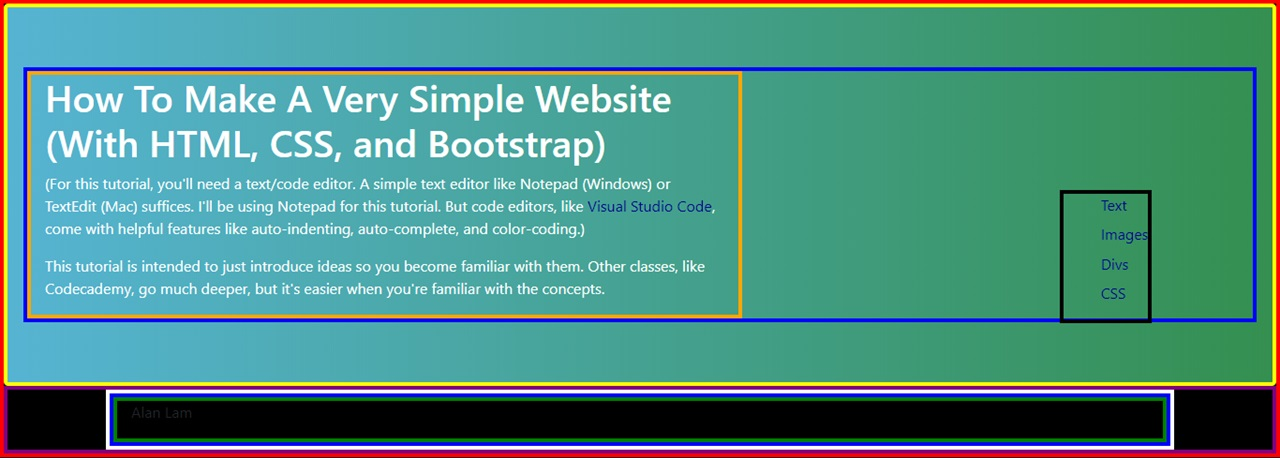
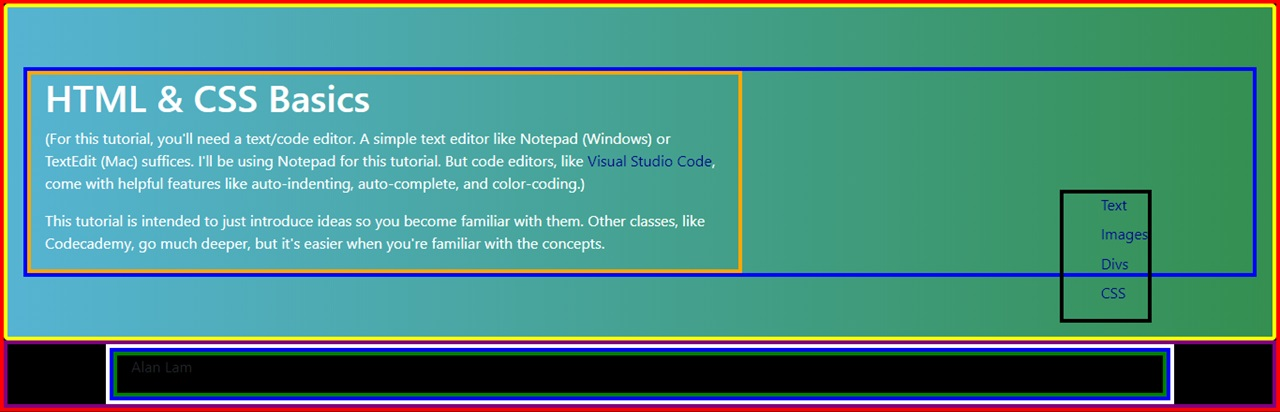
update

diff --git a/website_tutorial.html b/website_tutorial.html
@@ -13,13 +13,14 @@
         <li><a href="#text">Text</a></li>
         <li><a href="#images">Images</a></li>
         <li><a href="#divs">Divs</a></li>
+        <li><a href="#classes">Classes</a></li>
         <li><a href="#css">CSS</a></li>
       </ul>
     </div>
     <div class="jumbotron">
       <div class="row">
         <div class="col-sm-7">
-          <h1>How To Make A Very Simple Website (With HTML, CSS, and Bootstrap)</h1>
+          <h1>HTML & CSS Basics</h1>
           <img class="img-fluid" src="./pictures/website_tutorial/cover_picture.jpg">
           <p>(For this tutorial, you'll need a text/code editor. A simple text editor like Notepad (Windows) or TextEdit (Mac) suffices. I'll be using Notepad for this tutorial. But code editors, like <a href="https://code.visualstudio.com/" target="_blank">Visual Studio Code</a>, come with helpful features like auto-indenting, auto-complete, and color-coding.)</p>
           <p>This tutorial is intended to just introduce ideas so you become familiar with them. Other classes, like Codecademy, go much deeper, but it's easier when you're familiar with the concepts.</p>
@@ -33,7 +34,8 @@
           <p>The two main types of text you're going to see on a website are headings and paragraphs. Headings are the big bold titles and paragraphs are the regular words, like the ones in this sentence.</p>
           <img class="img-fluid" src="./pictures/website_tutorial/heading.jpg">
           <p>This is the syntax for creating a heading element. The "&lt;h1&gt;" is called an opening tag. The "&lt;/h1&gt;" is called a closing tag. The "h1" means it is a heading with the biggest size. The numbers range from 1-6 where 1 is the largest and 6 is the smallest. These numbers only apply for headings.</p>
-          <p>Save the file, go to the place where it is saved on your computer, and double click on it. You should see the words "This is a heading" at the top left.</p>
+          <p>Save the file, go to the place where it is saved on your computer, and open* it. You should see the words "This is a heading" at the top left.</p>
+          <p>*From this point on, when I say open a file - or if you want to see the changes you made -, I mean refresh the page. If you haven't closed the page yet.</p>
           <img class="img-fluid" src="./pictures/website_tutorial/paragraph.jpg">
           <p>Below the heading is the syntax for a paragraph element. The opening tag (&lt;p&gt;) is at the beginning and the closing tag (&lt;/p&gt;) is at the end. As you can guess, the "p" stands for paragraph. If you save your file and open it, you should see the paragraph element below the heading.</p>
           <h3 id="images">Images</h3>
@@ -43,8 +45,36 @@
           <h3 id="divs">Divs</h3>
           <p>"Div" is short for "division". In this case, division means a part of the webpage that has been divided. These are the rectangles I mentioned earlier. One way of looking at this is like imagining the webpage as a big rectangle. Adding divs is like adding smaller rectangles inside the big rectangle.</p>
           <img class="img-fluid" src="./pictures/website_tutorial/div.jpg">
-          <p>Here is the syntax for creating a div. By convention, everything inside a div is indented by 2 spaces. If you save the file and open it, nothing should change. That is because divs don't add anything visual. They are used to place elements that should logically be together. For example, the menu on the right is inside it's own div because it contains links to places on this page. So it is logical to place them together inside a div. The footer at the bottom is in its own div because it is separate from the rest of the elements on this webpage.</p> <p>Because they are related, you would want related elements to look the same. For example, for this webpage, the instructional text is white and menu links are blue. Putting logically related elements inside a div makes it easy to style them so they look the same.</p>
+          <p>Here is the syntax for creating a div. By convention, everything inside a div is indented by 2 spaces. If you save the file and open it, nothing should change. That is because divs don't add anything visual. They are used - not exclusively - to place elements that should logically be together. For example, the menu on the right is inside it's own div because it contains links to places on this page. So it is logical to place them together inside a div. The footer at the bottom is in its own div because it is separate from the rest of the elements on this webpage.</p> <p>Because they are related, you would want related elements to look the same. For example, for this webpage, the instructional text is white and menu links are blue. Putting logically related elements inside a div makes it easy to style them so they look the same.</p>
+          <h3 id="classes">Classes</h3>
+          <p>Classes are like labels. It <i>can</i> be thought of like an actual class (in college), where a math class has math majors and a history class has history majors. Like in the college class example, elements inside a class are expected to be related to each other in some way. If that sounds familiar, it's because divs have classes. Back to the college class example, putting math students inside a classroom is like putting elements in a div. Putting a label on the door that says "Math Class" is like adding a class to that div.</p>
+          <p>I think the best way to understand classes is to try using them in an example. So I'd like to introduce an exercise at this point.</p>
+          <p>In your index.html file, delete everything and:</p>
+          <ul>
+            <li>Add a div</li>
+            <li>Add a heading (h1) that says "Colors"</li>
+            <li>Add three paragraph elements, each containing the name of a color</li>
+          </ul>
+          <a class="btn toggle-text" data-toggle="collapse" href="#collapseExercise1">Click Here For Answer</a>
+          <div class="collapse" id="collapseExercise1">
+            <img class="img-fluid" src="./pictures/website_tutorial/exercise1.jpg">
+          </div>
+          <br>
+          <img class="img-fluid" src="./pictures/website_tutorial/exercise1_result.jpg">
+          <p>It should look something like this.</p>
+          <img class="img-fluid" src="./pictures/website_tutorial/classes.jpg">
+          <p>This is the syntax for adding a class to a div. You could name a class anything you want. I chose "colors" because that made sense in this situation.</p>
           <h3 id="css">CSS</h3>
+          <p>CSS stands for "Cascading Style Sheets". It is a <a href="https://www.quora.com/Is-CSS-or-HTML-a-programming-language" target="_blank">"programming"</a> language used to dictate how elements in a document should look. Color, backgrounds, size, and position are the main properties (for me anyways) that are determined using CSS.</p>
+          <p>At this point, open a brand new text file and save it as "index.css" (Without the quotes). And move it to the folder containing index.html.</p>
+          <img class="img-fluid" src="./pictures/website_tutorial/css.jpg">
+          <p>This is the syntax for CSS. If you want to target a class, you put a period in front of the class name. Like in the html file, there's 2 spaces of indentation. Again, it's by convention. Whitespace doesn't actually have an effect on the result; it's there for readability.</p>
+          <p>By putting "color: purple", I'm specifying that elements with the class "colors" should be purple.</p>
+          <p>Try saving both files (index.html and index.css) and opening index.html.</p>
+          <p>Nothing should have changed. That's because we need to "link" the html and css files.</p>
+          <img class="img-fluid" src="./pictures/website_tutorial/linking.jpg">
+          <p>By doing this, index.html knows which file to look at for styling rules. "href" is similar to "src" in that it specifies the location of a file. Since index.css and index.html are in the same folder, the location is the name of the file. Honestly, I'm a little unsure about "rel". I believe it's short for "relation" and it specifies what type of file it is. As mentioned before, the newline between the link and div is only there for readability.</p>
+          <p>Now try opening index.html again.</p>
         </div>
       </div>
     </div>

diff --git a/index.html b/index.html
@@ -132,9 +132,9 @@
       </div>
       <div class="row tutorial-article">
         <div class="col-sm-7">
-          <a href="website_tutorial.html" target="_blank"><h4>How To Make A Simple Website (With HTML, CSS, and Bootstrap)</h4>
+          <a href="website_tutorial.html" target="_blank"><h4>HTML & CSS Basics</h4>
           <img class="img-fluid" src="./pictures/website_tutorial/cover_picture.jpg"></a>
-          <p>Nowadays, there a lot of options to make websites without having to learn how to code. Maybe that's because code seems daunting. In its own right, code is another language. And like any language, it can be learned. This tutorial will break down the components of websites and - hopefully - give you a basic understanding of the language of website-making so you can make your own. With code.</p>
+          <p>Good websites are made up of a lot of complicated pieces (of code). However, all websites contain basic elements and build upon those basic elements to create the more complicated pieces. This tutorial will introduce what those basic elements are so you have an understanding of the fundamentals of making websites.</p>
         </div>
       </div>
     </div>
@@ -177,7 +177,7 @@
           <img class="img-fluid" src="./pictures/resources/w3schools.jpg">
           <p>W3Schools is kind of like an online handbook or dictionary containing documentation and small tutorials. It's useful for looking up syntax and basic concepts.</p>
           <img class="img-fluid" src="./pictures/resources/stackoverflow.jpg">
-          <p>Stack Overflow is a question and answer platform for developers. It is "the largest, most trusted online community for developers to learn, share their programming knowledge, and build their careers." </p>
+          <p>Stack Overflow is a question and answer platform for developers. It is "the largest, most trusted online community for developers to learn, share their programming knowledge, and build their careers." It is likely that any question you have has already been answered on Stack Overflow.</p>
         </div>
       </div>
       <div class="row">

diff --git a/website_tutorial.css b/website_tutorial.css
@@ -19,6 +19,11 @@ code {
   background-color: white;
 }
 
+.btn:focus, .btn:active {
+  outline: none !important;
+  box-shadow: none !important;
+}
+
 #menu {
   position: fixed;
   z-index: 1;
@@ -26,7 +31,7 @@ code {
   top: 30%;
 }
 
-li {
+#menu li {
   list-style-type: none;
   margin-bottom: 15%;
 }
@@ -35,6 +40,6 @@ a:hover {
   color: white;
 }
 
-.active, #menu ul li a:hover  {
+#menu ul li a:hover  {
   background-color: black;
 }

diff --git a/index.css b/index.css
@@ -84,6 +84,15 @@ body, html {
   margin-bottom: 7%;
 }
 
+
+#links .col-sm-6 {
+  border-bottom: 2px solid gray;
+}
+
+#links img {
+  margin-top: 3%;
+}
+
 #mywebsite {
   display: flex;
   justify-content: center;

diff --git a/index.js b/index.js
@@ -12,7 +12,7 @@ function onScroll(event){
       currLink.addClass("active");
     }
     else{
-    currLink.removeClass("active");
+      currLink.removeClass("active");
     }
   });
 }
